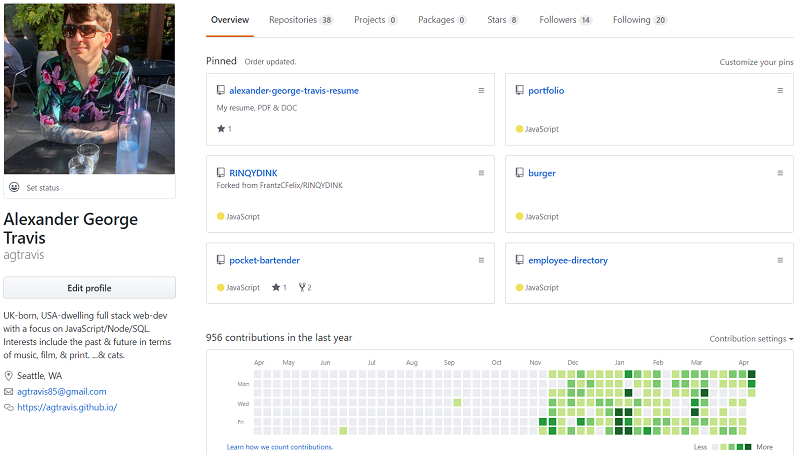
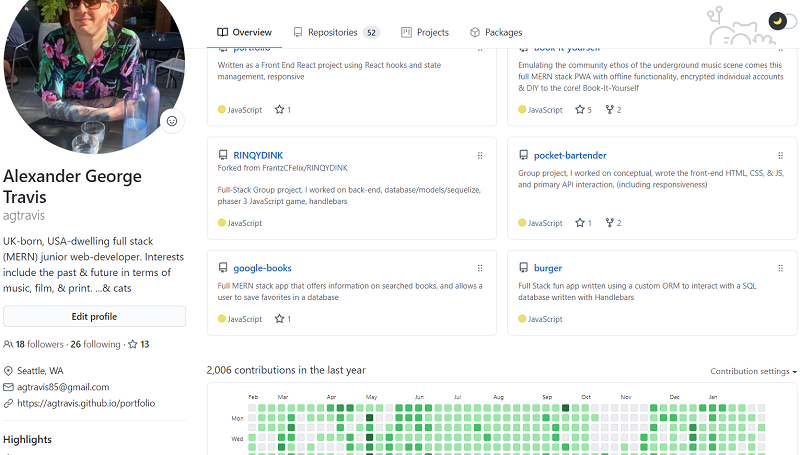
updated to include superhero battle

diff --git a/src/context/PortfolioContext.js b/src/context/PortfolioContext.js
@@ -62,7 +62,7 @@ const PortfolioContext = React.createContext({
       description:
         'Mobile first app with API queries & local storage for inspiration with home cocktailing',
       screenshot: 'assets/images/pocket-bartender.png',
-      position: 3,
+      position: 4,
     },
     {
       title: 'Resume Generator',
@@ -107,7 +107,7 @@ const PortfolioContext = React.createContext({
       description:
         'An app that runs in the browser via Heroku and utilizing SQL and CRUD operations to create a fun UI',
       screenshot: 'assets/images/burger-app.png',
-      position: 6,
+      position: 0,
     },
     {
       title: 'Rinqydink Arcade',
@@ -116,7 +116,7 @@ const PortfolioContext = React.createContext({
       description:
         'An online gaming community featuring games, chat, member profiles with high scores. Games written in JS',
       screenshot: 'assets/images/game-chat.png',
-      position: 2,
+      position: 3,
     },
     {
       title: 'Workout Tracker',
@@ -143,7 +143,7 @@ const PortfolioContext = React.createContext({
       description:
         'A simple app using React components, state, props, & context, to organize and filter an API response',
       screenshot: 'assets/images/employee-directory.png',
-      position: 5,
+      position: 6,
     },
     {
       title: 'Bookshelf App',
@@ -152,7 +152,7 @@ const PortfolioContext = React.createContext({
       description:
         'Full MERN stack app that offers information on searched books, and allows a user to save favorites in a database',
       screenshot: 'assets/images/google-books.png',
-      position: 4,
+      position: 5,
     },
     {
       title: 'Book-It-Yourself',
@@ -161,6 +161,15 @@ const PortfolioContext = React.createContext({
       description:
         'Responsive MERN stack app with offline functionality & user account password encryption connecting DIY musician communities',
       screenshot: 'assets/images/book-it-yourself.png',
+      position: 2,
+    },
+    {
+      title: 'Superhero Battle',
+      href: 'https://agtravis-superhero-battle.herokuapp.com/',
+      github: 'https://github.com/agtravis/superhero-battle',
+      description:
+        'Collectable Card Game - Responsive MERN stack app with offline functionality & user account password encryption, CSS Animation',
+      screenshot: 'assets/images/superhero-battle.png',
       position: 1,
     },
   ],
